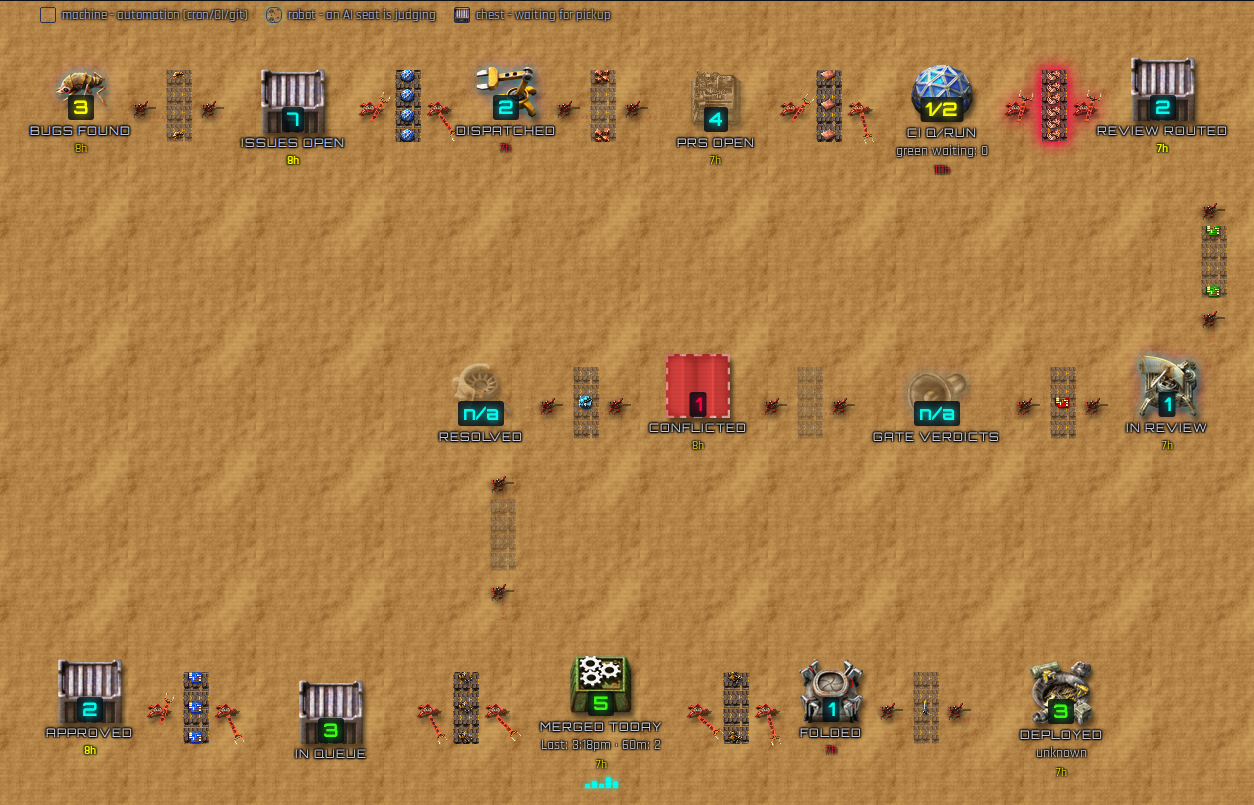
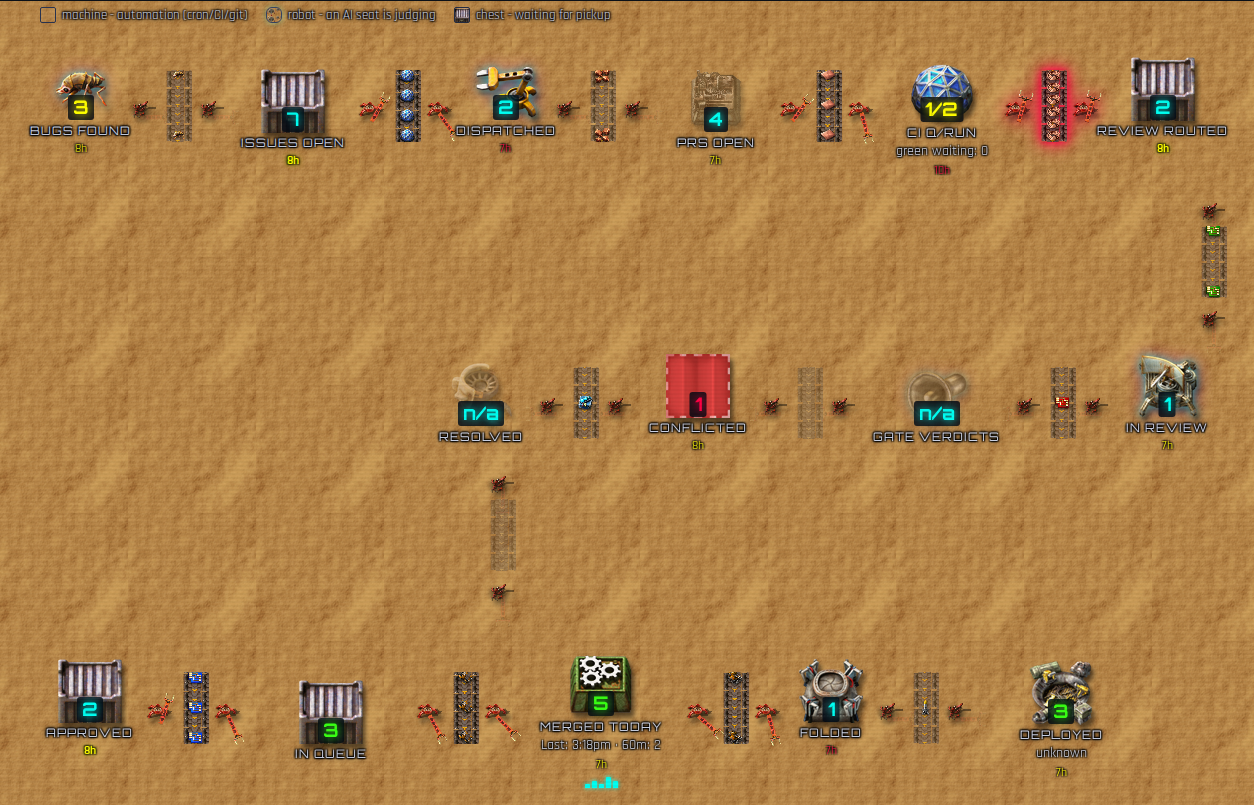
fix(monitor): rotate belt chevrons to face down on every vertical belt segment
Ben: "each segment of the belts need to be rotated to face down... make the
belts look like the screenshot." belt-tile.png's chevron is baked in
pointing right (it's a horizontal-belt asset) - a vertical belt was reusing
that same tile unrotated, so every segment showed a sideways chevron on a
belt that visibly runs top to bottom.

Rotated the source tile -90deg (clockwise) into a new
static/factorio/belt/belt-tile-vertical.png, used only by
.ship-belt-vertical .ship-belt-track - CSS-rotating the live element was not
an option since it's non-square (26x72) and a transform:rotate would fight
its own width/height. The existing background-position-y scroll animation
needed no change - it already scrolled downward to match "downstream is
down".

Full test suite re-verified green.

Claude-Session: https://claude.ai/code/session_015a21LH9eqkn4oZydkWAQ3i

diff --git a/queue_router.py b/queue_router.py
@@ -7640,7 +7640,15 @@ animation:ship-belt-flow linear infinite;animation-duration:var(--belt-duration,
    belt sits inside a column-direction parent (.ship-arrow-vertical, the
    row-turn) AND a row-direction one (.ship-arrow-vbelt, in-row) now. */
 .ship-belt-vertical{width:26px;height:72px;flex:0 0 auto}
-.ship-belt-vertical .ship-belt-track{background-size:18px 18px;background-repeat:repeat;animation-name:ship-belt-flow-vertical}
+/* Ben's built reference: each belt segment's own chevron faces the actual
+   direction of travel (down), not sideways - the base tile's chevron is
+   baked in pointing right (it's a horizontal-belt asset), so a vertical
+   belt swaps to a separately pre-rotated tile (belt-tile-vertical.png,
+   rotated -90deg/clockwise from the same source so a rightward chevron
+   becomes a downward one) rather than trying to CSS-rotate the live
+   non-square element, which would fight its own width/height. */
+.ship-belt-vertical .ship-belt-track{background-image:url('/static/factorio/belt/belt-tile-vertical.png');
+background-size:18px 18px;background-repeat:repeat;animation-name:ship-belt-flow-vertical}
 @keyframes ship-belt-flow-vertical{to{background-position-y:18px}}
 .ship-belt-items{position:absolute;inset:0}
 .ship-belt-item{position:absolute;top:50%;left:50%;width:16px;height:16px;transform:translate(-50%,-50%);
